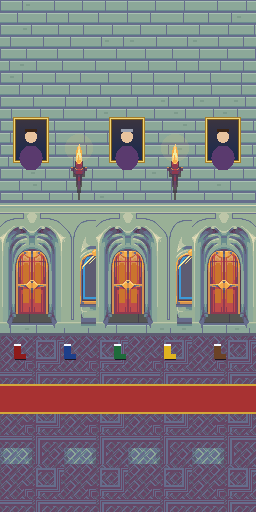
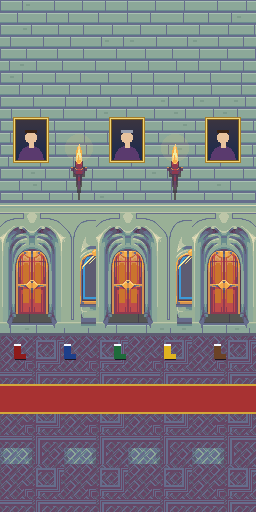
Wall portraits: shoulders are clipped to the frame
The painted body was a full ellipse centred on the lower frame edge, so its lower half stuck out of the picture. It is now the upper half of a wide ellipse inside the frame, with a neck. Re-rendered the four backgrounds that contain portraits (staircases, potions, dorm_corridor, common_room).

Changed region(s): [[0.8125, 0.25, 0.9062, 0.3438], [0.4375, 0.25, 0.5312, 0.3438], [0.0625, 0.25, 0.1562, 0.3438]]

diff --git a/scripts/maps/scenes.ts b/scripts/maps/scenes.ts
@@ -99,9 +99,25 @@ function portrait(p: Picture, x: number, y: number, w: number, h: number, coat: 
   p.rect(x - 1, y - 1, w + 2, h + 2, '#7a5a1c');
   p.gradient(y, y + h, '#3a3440', '#1b2a4e', x, x + w);
   const rnd = random(seed);
-  p.ellipse(x + w / 2, y + h - 2, w / 2.6, h / 3.2, coat);
-  p.ellipse(x + w / 2, y + h * 0.42, w / 5, w / 5, rnd() < 0.5 ? '#e8c39e' : '#c9956a');
-  p.rect(x + w / 2 - w / 5, y + h * 0.42 - w / 5 - 1, (w / 5) * 2, 3, rnd() < 0.5 ? '#3b2414' : '#9aa0b0');
+  const skin = rnd() < 0.5 ? '#e8c39e' : '#c9956a';
+  const hair = rnd() < 0.5 ? '#3b2414' : '#9aa0b0';
+  const cx = x + w / 2;
+  // Shoulders: the upper half of a wide ellipse, clipped to the canvas so nothing sticks out of the frame.
+  const rx = w * 0.42;
+  const ry = h * 0.36;
+  const coatRgb = hex(coat);
+  for (let py = y + h - Math.ceil(ry); py < y + h; py++) {
+    for (let px = Math.floor(cx - rx); px <= cx + rx; px++) {
+      if (px < x || px >= x + w) continue;
+      const u = (px + 0.5 - cx) / rx;
+      const v = (py + 0.5 - (y + h)) / ry;
+      if (u * u + v * v <= 1) p.dot(px, py, coatRgb);
+    }
+  }
+  const headY = y + h * 0.44;
+  p.rect(Math.round(cx - w / 12), Math.round(headY), Math.round(w / 6), Math.round(y + h - ry - headY) + 2, skin); // neck
+  p.ellipse(cx, headY, w / 5, w / 5, skin);
+  p.rect(cx - w / 5, headY - w / 5 - 1, (w / 5) * 2, 3, hair);
 }
 
 /** Torch with flame and warm glow. */
